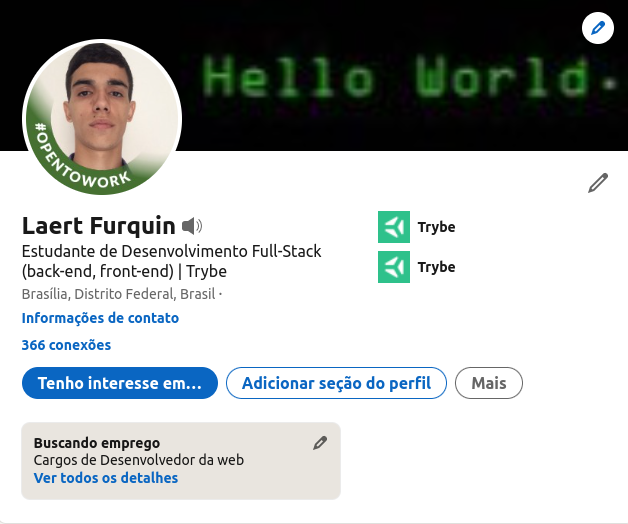
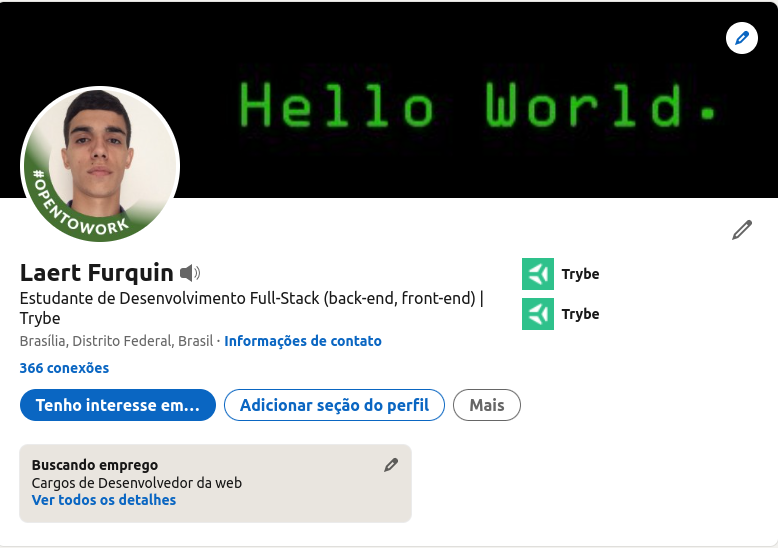
fix: modifica texto sobre e imagem de perfil , melhora imagem linkedin

Changed region(s): [[0.0, 0.0, 1.0, 0.9466], [0.0, 0.8244, 0.3933, 0.9466], [0.9379, 0.3969, 0.9682, 0.458]]

diff --git a/src/components/Sobre.js b/src/components/Sobre.js
@@ -10,17 +10,22 @@ export class Sobre extends Component {
           <h1 className="mt-10 flex justify-center text-6xl " > Um pouco sobre mim  </h1>
         </div>
 
-        <div className='flex justify-around mt-32 mb-32 '>
+        <div className='flex justify-around mt-16 mb-32 '>
 
           <div className="max-w-screen-sm" >
-            <img src={ perfil } alt="imagem-de-perfil" />
+            <img className="w-400 h-400" src={ perfil } alt="imagem-de-perfil" />
           </div>
-          <div className= 'max-w-xl text-4xl'>
+          <div className= 'text-white max-w-xl text-4xl'>
             <p>
-              Prazer, Laert Furquin, tenho 25 anos , amo animais e praias.
-              Sou muito descontraído e agitado.
-              Trabalho com desenvolvimento de software Full-stack, ainda em início de carreira, porém muito empolgado!
-              Sempre busco novos desafios e possibilidades de me destacar, mostrando do que sou capaz. Sou muito curioso, alegre e muito dedicado.
+              Prazer, me chamo Laert Furquin, tenho 25 anos.<br/>
+              <br/>
+              Sou Desenvolvedor Junior Full-Stack, ainda em início de carreira, porém muito empolgado e animado.<br/>
+              <br/>
+              Tenho experiência com JavaScript, Typescript, NodeJS, ReactJS, Html e CSS.<br />
+              <br/>
+              Sempre busco novas motivações e desafios visando sempre destacar, mostrando minha capacidade.<br />
+              <br/>
+              Sou muito curioso e dedicado.<br />
             </p>
 
           </div>
